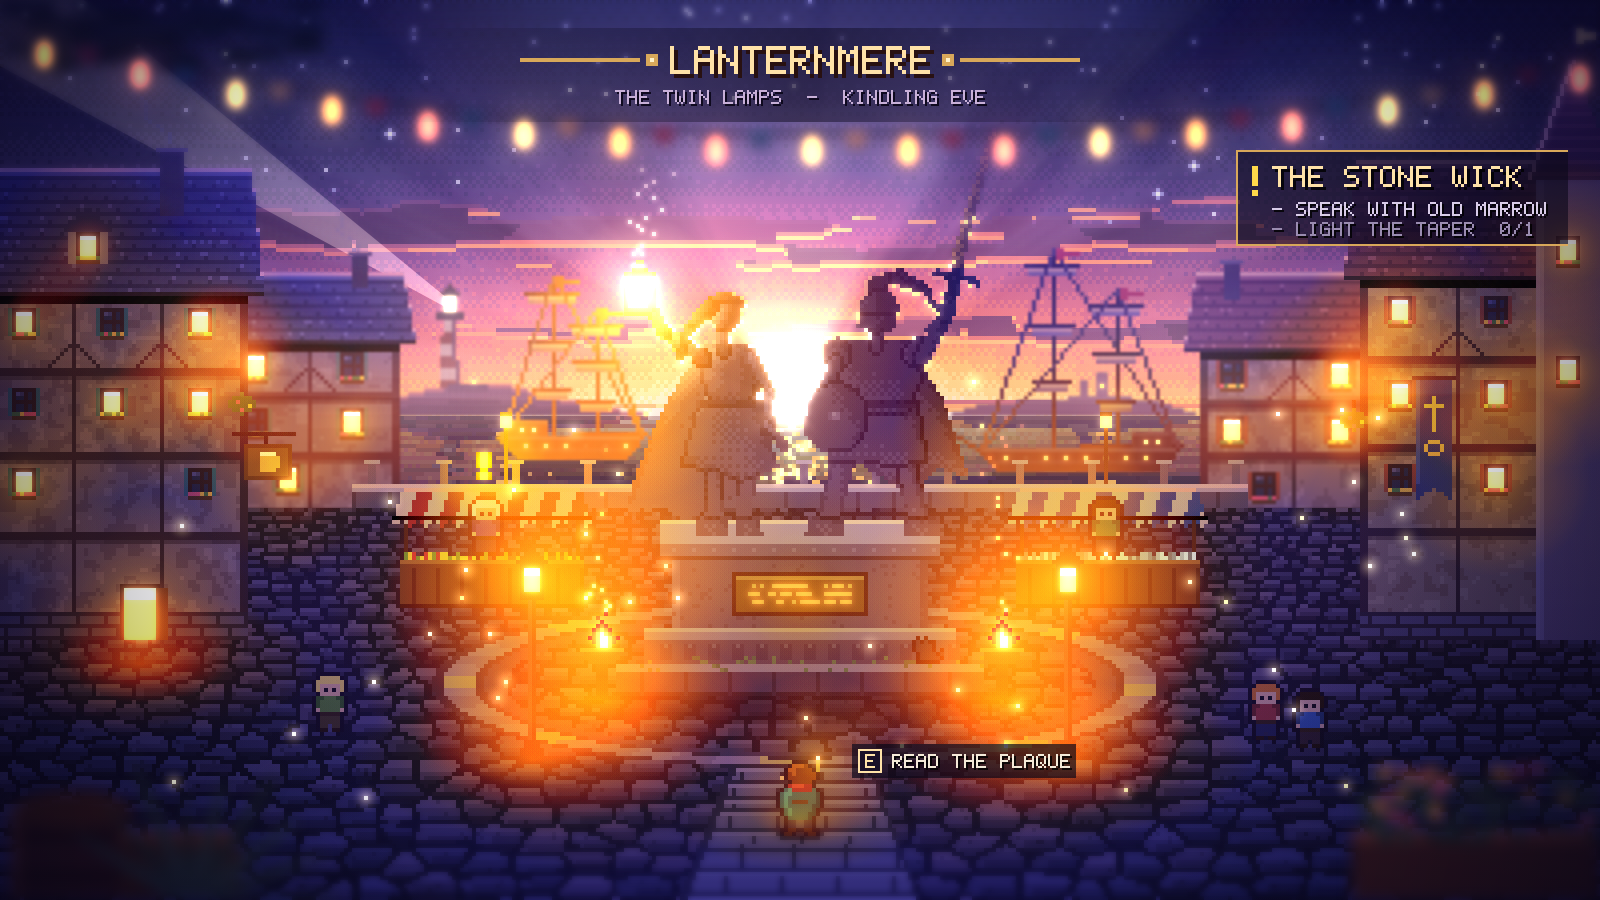
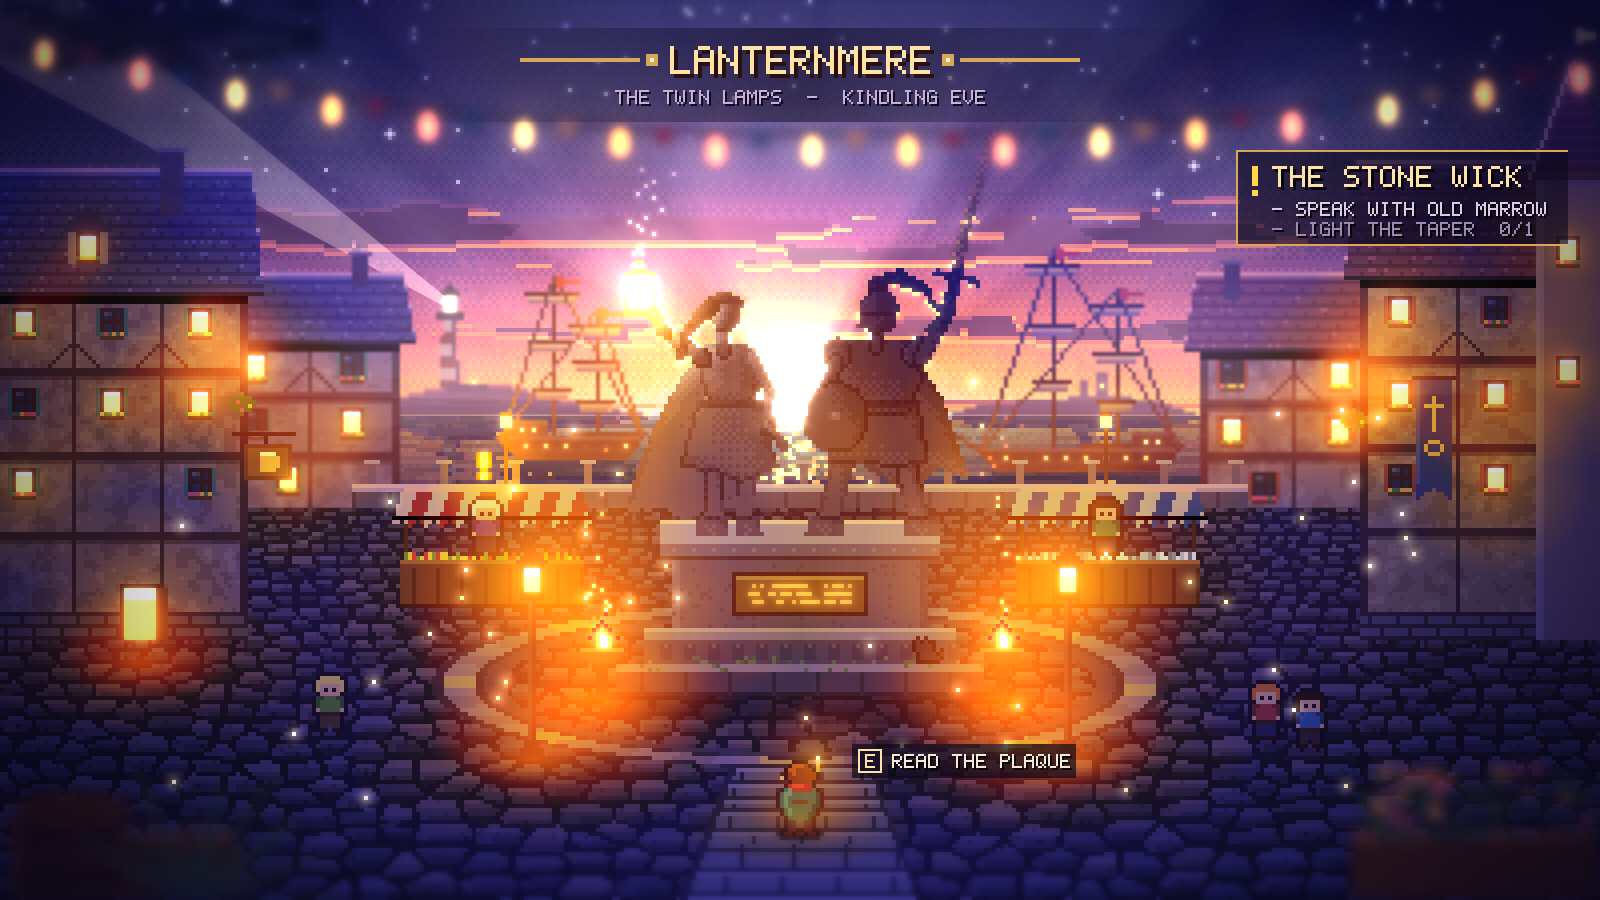
Add Afterlight key art
Claude-Session: https://claude.ai/code/session_01YDaH79F8gHUx42PWzrB3f9

Changed region(s): [[0.25, 0.3111, 0.75, 0.9022], [0.5312, 0.28, 0.5938, 0.3422]]

diff --git a/concepts/03-second-age/art.html b/concepts/03-second-age/art.html
@@ -170,7 +170,7 @@ float pillar(vec3 p, float h, float tilt){
  float d = sdCyl(p-vec3(0,h*.5,0), .85, h*.5);
  // fluting
  float a = atan(p.z,p.x);
- d += .05*smoothstep(.3,1.0,sin(a*12.0));
+ d += .025*smoothstep(.3,1.0,sin(a*12.0));
  vec3 n = normalize(vec3(sin(tilt),1.0,cos(tilt*1.7)));
  d = max(d, dot(p-vec3(0,h,0), n));
  d = min(d, sdBox(p-vec3(0,.3,0), vec3(1.15,.3,1.15)));
@@ -267,7 +267,7 @@ void initLamps(){
  LAMP[4]=vec3(12.2,2.7,9.4); LAMP[5]=vec3(16.6,2.7,4.6);  // stalls
  LAMP[6]=vec3(-17.5,5.6,4.0); LAMP[7]=vec3(-15.2,3.4,14.2);
  LAMP[8]=vec3(13.6,3.0,-14.6); LAMP[9]=vec3(-6.0,3.2,-19.5);
- LAMP[10]=vec3(9.35,1.15,9.0); // player's lantern
+ LAMP[10]=vec3(9.55,1.4,9.15); // player's lantern
  LAMP[11]=vec3(-22.0,3.0,-6.0);
 }
 float lampPosts(vec3 p){
@@ -299,15 +299,15 @@ vec2 shrooms(vec3 p){
  return U(vec2(st,11.0), vec2(cap,12.0));
 }
 float player(vec3 p){
- vec3 q = p-vec3(8.7,0,8.4);
- if(length(q-vec3(0,1,0))>1.6) return length(q-vec3(0,1,0))-1.2;
+ vec3 q = (p-vec3(8.7,0,8.4))/1.3;
+ if(length(q-vec3(0,1,0))>1.6) return (length(q-vec3(0,1,0))-1.2)*1.3;
  q.xz = rot(-0.75)*q.xz;
  float d = sdRC(q, vec3(0,.1,0), vec3(0,1.35,0), .32, .17);      // cloak
  d = smin(d, length(q-vec3(0,1.55,-.02))-.16, .06);              // hooded head
  d = smin(d, sdEll(q-vec3(0,1.6,-.08), vec3(.19,.2,.21)), .05);
  d = min(d, sdCap(q, vec3(.25,1.25,0), vec3(.45,.9,.2), .07));   // arm with lantern
  d = min(d, sdBox(q-vec3(-.12,1.1,-.28), vec3(.16,.28,.08))-.03); // pack
- return d;
+ return d*1.3;
 }
 vec2 dwellings(vec3 p){
  vec2 r = vec2(1e5,0);
@@ -435,7 +435,7 @@ vec3 shade(vec3 p, vec3 n, float m, vec3 rd, out vec3 emis){
   float crack = smoothstep(.009,.002,abs(cx))*step(0.08,q.z)*smoothstep(.75,.85,q.y)*smoothstep(1.4,1.3,q.y)*.7;
   float cn = fbm(q*vec3(9.0,4.0,9.0)+vec3(2.0));
   crack += .5*smoothstep(.008,.0,abs(cn-.5))*smoothstep(.7,.8,noise(q*5.0+5.0));
-  emis += TEAL*crack*2.5*(1.0-moss)*step(.45,q.y);
+  emis += TEAL*crack*2.5*(1.0-moss)*step(.45,q.y)*smoothstep(1.4,1.3,q.y);
   // berries on vines
   float ber = step(.992, h31(floor(q*90.0)))*step(.5,moss);
   emis += mix(TEAL, vec3(.5,.9,1.0), .5)*ber*1.5;
@@ -455,8 +455,10 @@ vec3 shade(vec3 p, vec3 n, float m, vec3 rd, out vec3 emis){
   float win = smoothstep(.2,.17,cw)*smoothstep(.22,.18,abs(yy-.55));
   float lit = step(.3, h21(vec2(floor(u/1.7), floor(p.y/2.7))+floor(p.xz*.01)));
   float mull = smoothstep(.015,.035,abs(cw))*smoothstep(.015,.035,abs(yy-.55));
+  float grime = smoothstep(.5,.8,fbm(p*.5+2.0))*(1.0-win);
   if(abs(n.y)<.5){
    alb = mix(alb, vec3(.03), win);
+   moss = grime*.85;
    emis += AMBER*vec3(1.0,.9,.8)*win*lit*mull*(2.2+1.2*noise(p*3.0));
   }
  } else if(m<11.5 && m>9.5){ // canopies
@@ -471,8 +473,8 @@ vec3 shade(vec3 p, vec3 n, float m, vec3 rd, out vec3 emis){
   emis += TEAL*.5*smoothstep(.04,.0,abs(p.y-.55))*.0;
  } else { // foliage
   alb = mix(vec3(.02,.06,.06), vec3(.05,.12,.08), noise(p*1.7));
-  float fr = step(.975, h31(floor(p*2.2)));
-  emis += mix(TEAL, vec3(.6,.8,1.0), h31(floor(p*2.2)+.5))*fr*1.6;
+  float fr = smoothstep(.16,.06,length(fract(p*1.6)-.5))*step(.86,h31(floor(p*1.6)));
+  emis += mix(TEAL, vec3(.6,.8,1.0), h31(floor(p*1.6)+.5))*fr*.9;
   emis += TEAL*.06*smoothstep(.2,-.6,n.y);
  }
  // stall canopy 10/11 handled above; mushroom stem id 11 collides with canopy col 1 -> fine
@@ -618,6 +620,11 @@ function post(glc){
  ctx.globalCompositeOperation='lighter';
  [[3,.6],[10,.5],[30,.4],[80,.3]].forEach(([r,a])=>{ctx.globalAlpha=a;ctx.drawImage(blurCopy(bp,r),0,0);});
  ctx.globalAlpha=1;
+ // god rays from the orb (radial smear of the bright pass)
+ { const [ox,oy]=proj(orbWorld()); const src=blurCopy(bp,3);
+   const rc=document.createElement('canvas');rc.width=W;rc.height=H;const rx=rc.getContext('2d');rx.globalCompositeOperation='lighter';
+   for(let i=0;i<28;i++){const sc=1+i*0.035;rx.globalAlpha=0.05*(1-i/28);rx.setTransform(sc,0,0,sc,ox*(1-sc),oy*(1-sc));rx.drawImage(src,0,0);}
+   ctx.globalAlpha=.9;ctx.drawImage(blurCopy(rc,6),0,0);ctx.globalAlpha=1; }
  // motes & fireflies
  const orb=proj(orbWorld());
  for(let i=0;i<260;i++){
@@ -675,7 +682,7 @@ function hud(ctx){
  ctx.font='14px Georgia, serif';ctx.fillStyle='rgba(200,235,228,.85)';
  ctx.fillText('◇  Touch the Wardens’ plinth  0 / 1',qx,qy+42);
  // nameplate over player
- const [px,py]=proj([8.7,2.35,8.4]);
+ const [px,py]=proj([8.7,3.0,8.4]);
  ctx.textAlign='center';ctx.font='600 13px Georgia, serif';ctx.letterSpacing='1px';ctx.fillStyle='#ffe9c4';ctx.shadowColor='rgba(0,0,0,.9)';ctx.shadowBlur=6;
  ctx.fillText('Wren',px,py-6);ctx.font='10px Georgia, serif';ctx.fillStyle='rgba(140,255,230,.9)';ctx.fillText('Lv 1  ·  Wayfarer',px,py+8);
  // interaction prompt near plinth

diff --git a/concepts/01-afterlight/art.html b/concepts/01-afterlight/art.html
@@ -163,11 +163,6 @@ function win(L,E,x,y,lit,shut){
   L.rect(x-1,y+6,6,1,'#4a3026');
   for(let i=0;i<6;i++){const r=hash(x+i,y);L.px(x-1+i,y+5+(r>.5?0:-0),r>.66?'#d8506a':r>.33?'#f0b24a':'#3e6a44');}
 }
-function roofTiles(L,pts,top,bot,base,dark,lite,rim){
-  rPoly(pts,(x,y)=>{const r=(y-top)%3;let c=r===2?dark:base;if(r===0&&((x+Math.floor((y-top)/3)*2)%4===0))c=dark;if(r===1&&hash(x,y)>.93)c=lite;L.px(x,y,c);});
-  // sky rim along the top edge
-  for(let x=0;x<W;x++)for(let y=top-1;y<bot;y++){if(L.al(x,y)&&!L.al(x,y-1)){/* only on this roof */let inside=false;rPoly(pts,()=>{});L.px(x,y,rim);break;}}
-}
 function sideRoof(L,x,w,top,rh,pal){
   const pts=[[x-4,top+1],[x+w+4,top+1],[x+w+1,top-rh],[x-1,top-rh]];
   const tmp=new Layer();
@@ -359,7 +354,7 @@ function sculpt(){
     if(over){const i=Math.max(0,RAMP.indexOf(c)-2);c=p.kind==='metal'?MRAMP[Math.max(0,MRAMP.indexOf(c)-2)]:RAMP[i];}
     if(rim>.62)c=col('#fff3cc');else if(rim>.48)c=col('#ffcf8e');else if(rim>.36)c=col('#d88a7a');
     main.px(x,y,c);if(rim>.48)eMain.px(x,y,c);}
-  light(LANTERN.x,LANTERN.y,70,[120,80,30]);light(LANTERN.x,LANTERN.y,22,[110,80,40]);
+  light(LANTERN.x,LANTERN.y,70,[120,80,30]);light(214,112,46,[90,55,25]);light(LANTERN.x,LANTERN.y,22,[110,80,40]);
 }
 
 // ============================== PROPS ======================================
@@ -581,11 +576,7 @@ X.drawImage(E,0,0);
   const N=64;for(let i=0;i<N;i++){const s=1+i*.03,a=.06*(1-i/N);rg.globalAlpha=a;rg.setTransform(s,0,0,s,SUN.x*2*(1-s),SUN.y*2*(1-s));rg.drawImage(c,0,0);}
   const sm0=new Layer();for(let i=0;i<W*H;i++)if(statueMask[i])sm0.d[i*4+3]=255;
   const rr=mk(FW,FH),rq=rr.getContext('2d');rq.drawImage(r,0,0,FW,FH);rq.globalCompositeOperation='destination-out';rq.globalAlpha=.85;rq.drawImage(blurred(up(sm0),3),0,0);
-  X.save();X.globalCompositeOperation='lighter';X.globalAlpha=.8;X.drawImage(rr,0,0);X.restore();
-  // keep the statue silhouette crisp: knock rays back over its body
-  const sm=new Layer();for(let i=0;i<W*H;i++)if(statueMask[i]){sm.d[i*4+3]=255;}
-  const smc=blurred(up(sm),3);const t=mk(FW,FH),tg=t.getContext('2d');tg.drawImage(r,0,0,FW,FH);tg.globalCompositeOperation='destination-in';tg.drawImage(smc,0,0);
-  X.save();X.globalCompositeOperation='difference';X.globalAlpha=0;X.restore();
+  X.save();X.globalCompositeOperation='lighter';X.globalAlpha=.95;X.drawImage(rr,0,0);X.restore();
 })();
 // 8 bloom
 X.save();X.globalCompositeOperation='lighter';

diff --git a/concepts/01-afterlight/ART.md b/concepts/01-afterlight/ART.md
@@ -1,0 +1,13 @@
+# Afterlight: Art Target
+
+**Style:** "Lantern Diorama", HD-2D pixel art. Sprites are drawn at 400x225, upscaled x4 and lit at 1600x900.
+
+**Palette:** `#100f28` `#322c66` `#6b4085` `#b55a83` `#ea8a72` `#ffd486` · stone `#1e1b2c` `#48405c` `#93808f` `#d4b49e` · lamp `#ffd27a` `#fff2c0` `#f07a2a` · cobble `#2f2b42` · accents `#28346e` `#a83038` `#2e6a74`
+
+**Pillars**
+1. **Crisp pixels, soft light.** Sprites use a limited palette with no anti-aliasing. Lighting runs at full resolution.
+2. **Light map.** A cool ambient layer is blended by hard-light, with warm lamps added on top that pool on the ground.
+3. **Volumetric glow.** God rays come from the occluded sun. Bloom and particles sit over everything.
+4. **Depth.** Parallax layers, tilt-shift blur and foreground bokeh.
+
+**Tech:** a WebGL2 2D renderer (PixiJS v8 or custom) with normal-mapped sprite lighting, deferred lights, and bloom and god-ray post shaders. This demo uses Canvas2D.
